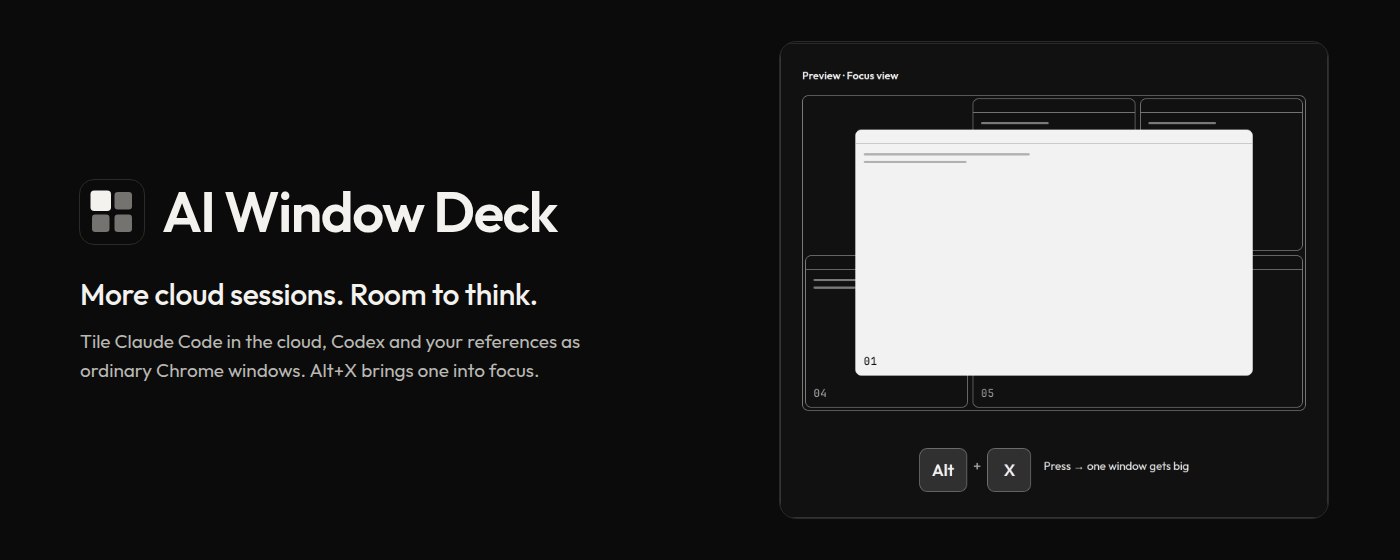
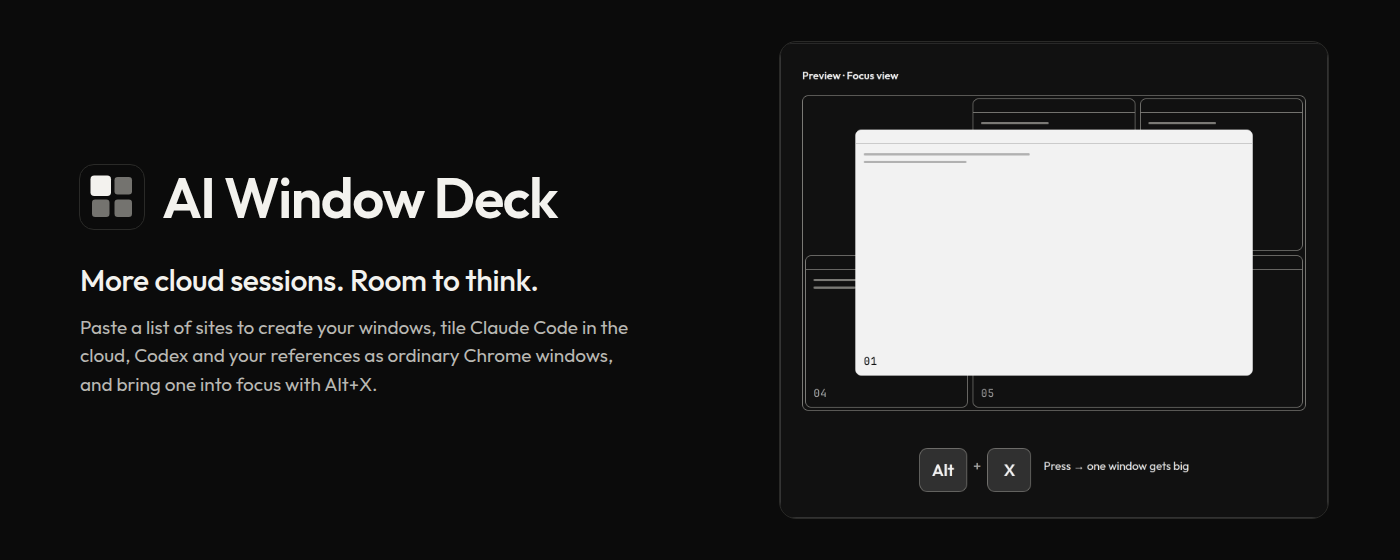
Store assets for 1.11.2: localized register screenshots, listing text, publish checklist

Changed region(s): [[0.0614, 0.5768, 0.4607, 0.6982], [0.0614, 0.3036, 0.3993, 0.425], [0.0614, 0.4857, 0.3993, 0.5464]]

diff --git a/store-assets/PUBLISH-CHECKLIST.md b/store-assets/PUBLISH-CHECKLIST.md
@@ -1,41 +1,59 @@
-# AI Window Deck — publish checklist (v1.7.0)
+# AI Window Deck — publish checklist (v1.11.2)
 
-## Listing graphics for the v1.11 monochrome design
+## Package
 
-The store listing graphics are uploaded separately from the package, so a new ZIP does not replace them. Upload these under **Store listing → Graphic assets** in the developer dashboard:
+The 1.11.2 package is built from the published 1.11.0 store package by the patch scripts, not by `npm run build`:
+
+```sh
+node tools/patch-v1.11.2-inline-register.mjs <unpacked-1.11.0> <out>   # also applies the 1.11.1 patch
+cd <out> && zip -X -r ../ai-window-deck-v1.11.2.zip manifest.json background.js identify.html identify.js icons _locales dist
+node tools/validate-package.mjs ../ai-window-deck-v1.11.2.zip
+```
+
+- [x] `ai-window-deck-v1.11.2.zip`: 19 files, manifest 1.11.2, permissions `tabs`, `tabGroups`, `storage`, `system.display` (unchanged from 1.11.0), validated.
+- [x] `AWD_V1110_DIR=<unpacked-1.11.0> npm test` builds the package in a temp folder and checks it.
+
+## Listing graphics
+
+The store listing graphics are uploaded separately from the package, so a new ZIP does not replace them. Upload these under **Store listing → Graphic assets** in the developer dashboard, and delete the old screenshots first:
 
 | Dashboard field | File |
 | --- | --- |
 | Store icon (128 × 128) | `listing/store-icon-128.png` |
-| Screenshots (1280 × 800), English | `listing/en/01-…05-*.png` (delete the old blue ones first) |
-| Screenshots, Japanese listing | `listing/ja/01-…05-*.png` (Japanese captions; the panel in the captures is the English UI) |
+| Screenshots (1280 × 800), English | `listing/en/01-register.png`, `02-bulk-paste.png`, `03-layout.png`, `04-focus-view.png`, `05-launch.png` |
+| Screenshots, Japanese listing | `listing/ja/01-…05-*.png` (Japanese captions and the Japanese UI) |
 | Small promo tile (440 × 280) | `listing/promo-small.png` |
 | Marquee promo tile (1400 × 560) | `listing/promo-marquee.png` |
 
-Regenerate them with `python3 store-assets/make-store-icon.py` and `store-assets/capture-listing-graphics.mjs` (see the header of that script). The icon script also writes the monochrome `icons/icon-*.png` used by the extension package.
+Listing text, including "What's new in 1.11.2": `listing/en/description.txt` and `listing/ja/description.txt`. The short description is the manifest's `extDescription`; Chrome fills it in from the package. Other locales: `LOCALIZED-PRODUCT-DETAILS.md` (pre-1.11 text; add the register feature when you update them).
+
+Regenerate the graphics in this order:
+
+1. `python3 store-assets/make-store-icon.py` (store icon and `icons/icon-*.png`).
+2. Serve the unpacked 1.11.2 package (`python3 -m http.server 8782` in its folder) and run `store-assets/capture-app-screens.mjs`. It writes the extension screenshots used by the site, the READMEs and the listing into `site/assets/img/`.
+3. Serve `site/` and run `store-assets/capture-listing-graphics.mjs` with `SITE_URL` pointing at it.
+
+Both capture scripts take `PLAYWRIGHT` (path to `playwright-core`) and `CHROME` (path to Chrome).
 
 ## Ready in the repository
 
-- [x] Upload package: run `./tools/package.sh` → `AI-Window-Deck-v1.7.0.zip` (validated; not committed)
-- [x] 128 × 128 store icon: `../icons/icon-128.png`
-- [x] English listing copy: `STORE-LISTING.md`. All 8 locales: `LOCALIZED-PRODUCT-DETAILS.md`
-- [x] Five English screenshots at 1280 × 800 (`screenshots/0[1-5]-*.png`) and five Japanese ones (`localized/ja/screenshots/`)
-- [x] 440 × 280 small promo tile and 1400 × 560 marquee tile: `promo-small.png`, `promo-marquee.png`
-- [x] Privacy policy: `../PRIVACY.md`, plus generated `privacy-policy.html`. Dashboard answers: `CHROME_WEB_STORE_PRIVACY_PRACTICES.md`
+- [x] Listing graphics above, all at the store's exact sizes (screenshots and promo tiles opaque RGB; the store icon keeps its transparent padding).
+- [x] Privacy policy: `../PRIVACY.md`, plus generated `privacy-policy.html`. Dashboard answers: `CHROME_WEB_STORE_PRIVACY_PRACTICES.md` (unchanged: no new permissions or data use in 1.11.2).
 - [x] Support contact: `https://github.com/takaoumehara/ai-window-deck/issues`
+- [x] Site (`site/`) updated for 1.11.2. Vercel deploys it from `main` after the release PR is merged.
 
 ## In the publisher's Chrome Web Store account
 
-- [ ] Upload `AI-Window-Deck-v1.7.0.zip` to the existing draft and confirm the version reads 1.7.0.
-- [ ] Paste listing copy per language and upload screenshots and promo tiles.
-- [ ] Privacy practices: fill in exactly as in `CHROME_WEB_STORE_PRIVACY_PRACTICES.md`. Only **Web history** is checked, plus all three certifications, and remote code is **No**.
-- [ ] Privacy policy URL: confirm it loads without signing in (the GitHub `blob/main/PRIVACY.md` URL works after merge).
-- [ ] Optional promo video: `../AI-window-deck-promo.mp4` shows the pre-1.7 UI, so re-record it or skip it.
-- [ ] Distribution: Public or Unlisted. Submit for review.
-- [ ] After approval: tag `v1.7.0` on `main` and create a GitHub Release with the ZIP (see `../docs/RELEASING.md`).
+- [ ] Upload `ai-window-deck-v1.11.2.zip` to the existing item and confirm the version reads 1.11.2.
+- [ ] Paste the detailed description from `listing/<locale>/description.txt` and upload the screenshots and promo tiles.
+- [ ] Privacy practices: unchanged. Only **Web history** is checked, plus all three certifications, and remote code is **No**.
+- [ ] Submit for review.
+- [ ] After approval: tag `v1.11.2` on `main` and create a GitHub Release with the ZIP (see `../docs/RELEASING.md`).
 
 ## Final pre-submit check
 
-- [ ] Load the exact ZIP unpacked in a clean Chrome profile and try: register → drag to canvas → Launch → Alt+X / Alt+Z → Escape closes the dialog.
+- [ ] Load the exact ZIP unpacked in a clean Chrome profile and try: **Register URLs + Window** → bulk paste with a missing blank line → **Fix** → **Bulk Save** → auto-place → Launch → Alt+X / Alt+Z.
+- [ ] With **Allow access to file URLs** on for the extension, a local file path opens as a `file://` tab.
+- [ ] More → the Ko-fi link opens https://ko-fi.com/G2G71VP1DF in a new tab.
 - [ ] Screenshots show the current UI and no personal data.
 - [ ] Permission warnings on install match the listing: "Read your browsing history" (from `tabs`) and nothing broader.
